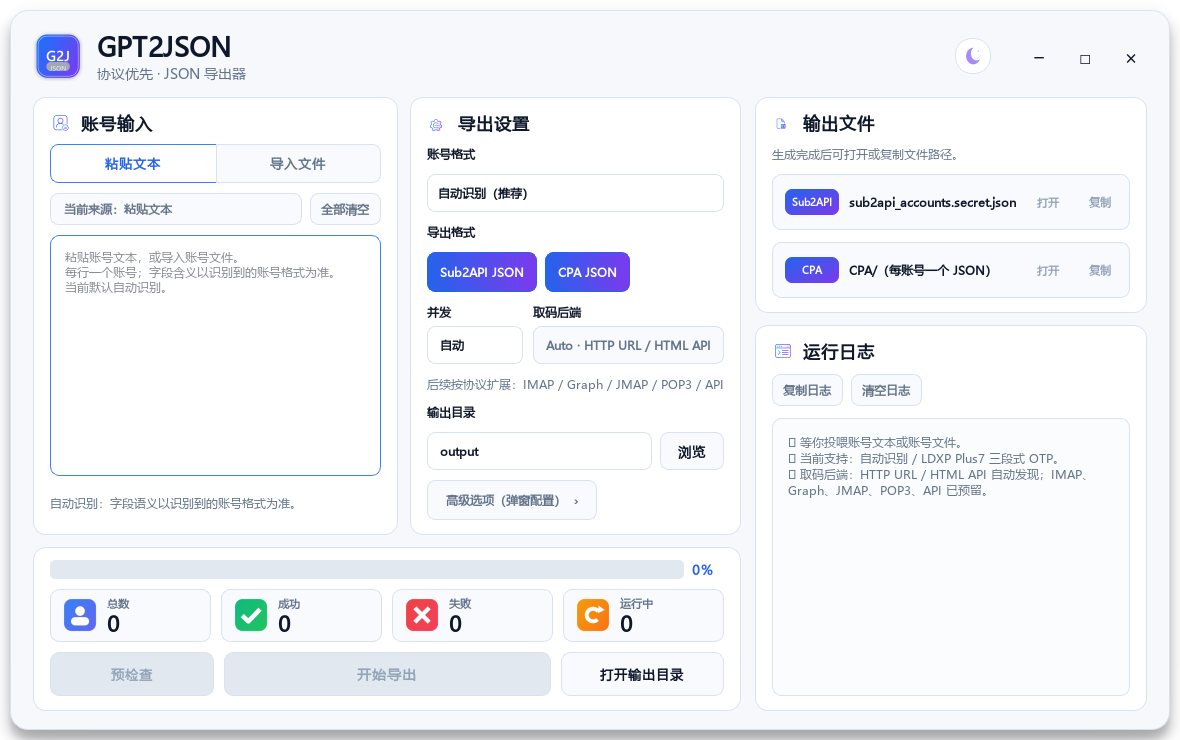
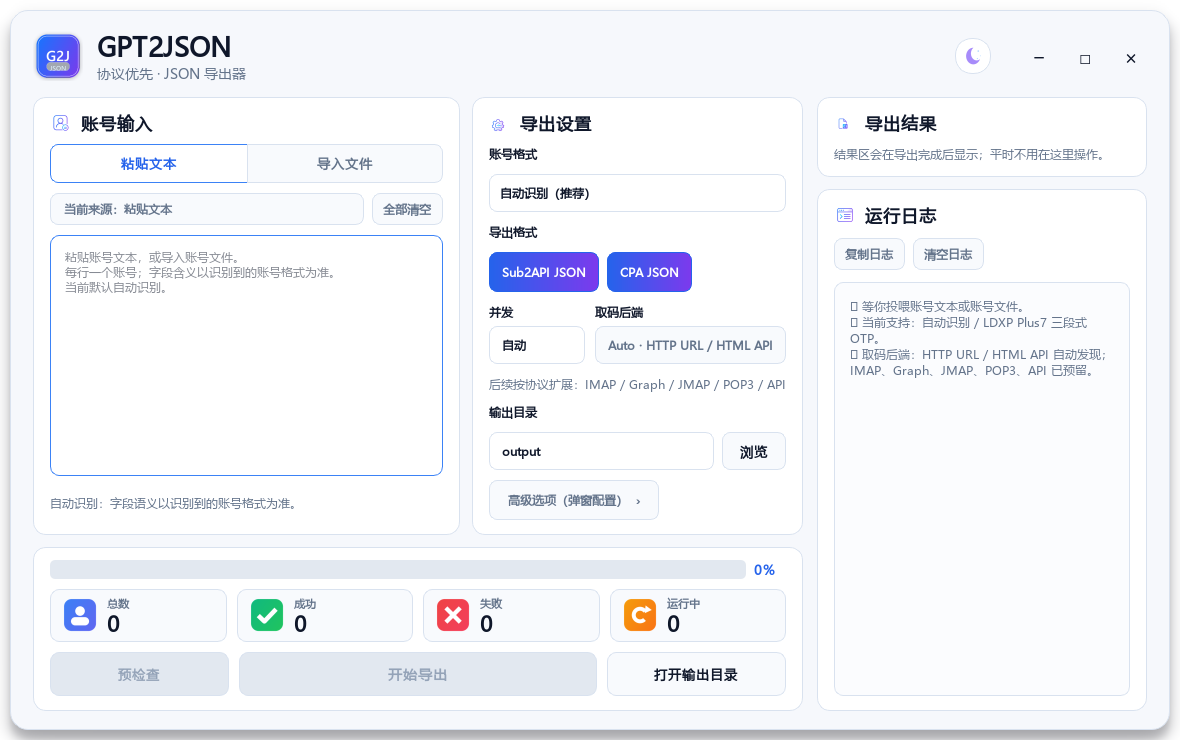
Make output panel contextual

diff --git a/gpt2json/gui.py b/gpt2json/gui.py
@@ -677,12 +677,15 @@ class MainWindow(QMainWindow):
         output_layout = QVBoxLayout(output_card)
         output_layout.setContentsMargins(16, 14, 16, 14)
         output_layout.setSpacing(12)
-        output_layout.addWidget(SectionHeader(UI_OUTPUT_PATH, "输出文件"))
-        self.output_hint_label = QLabel("勾选导出格式后，生成的文件会在这里显示。")
+        output_layout.addWidget(SectionHeader(UI_OUTPUT_PATH, "导出结果"))
+        self.output_hint_label = QLabel("任务完成后显示可打开的结果；未运行时这里保持精简。")
         self.output_hint_label.setObjectName("HintText")
+        self.output_hint_label.setWordWrap(True)
         output_layout.addWidget(self.output_hint_label)
         self.sub2api_row = FileOutputRow("sub2api_accounts.secret.json", "Sub2API")
         self.cpa_row = FileOutputRow("CPA/（每账号一个 JSON）", "CPA")
+        self.sub2api_row.setVisible(False)
+        self.cpa_row.setVisible(False)
         output_layout.addWidget(self.sub2api_row)
         output_layout.addWidget(self.cpa_row)
         layout.addWidget(output_card, 0)
@@ -953,12 +956,22 @@ class MainWindow(QMainWindow):
 
     def _refresh_output_format_state(self, *_args: Any) -> None:
         if hasattr(self, "sub2api_row"):
-            self.sub2api_row.setVisible(True)
-            self.cpa_row.setVisible(True)
-            self.sub2api_row.setEnabled(self.sub2api_check.isChecked() or bool(self.sub2api_row.path))
-            self.cpa_row.setEnabled(self.cpa_check.isChecked() or bool(self.cpa_row.path))
             any_selected = self.sub2api_check.isChecked() or self.cpa_check.isChecked()
-            self.output_hint_label.setText("生成完成后可打开或复制文件路径。" if any_selected else "请至少勾选一种导出格式。")
+            has_sub2api = bool(self.sub2api_row.path)
+            has_cpa = bool(self.cpa_row.path)
+            has_result = has_sub2api or has_cpa
+            self.sub2api_row.setVisible(has_sub2api)
+            self.cpa_row.setVisible(has_cpa)
+            self.sub2api_row.setEnabled(has_sub2api)
+            self.cpa_row.setEnabled(has_cpa)
+            if self._is_running:
+                self.output_hint_label.setText("正在导出，完成后这里会自动出现文件 / 文件夹入口。")
+            elif has_result:
+                self.output_hint_label.setText("已生成结果，可直接打开或复制路径。")
+            elif any_selected:
+                self.output_hint_label.setText("结果区会在导出完成后显示；平时不用在这里操作。")
+            else:
+                self.output_hint_label.setText("请至少勾选一种导出格式。")
         self._refresh_controls_state()
 
     def clear_input(self) -> None:
@@ -1337,6 +1350,7 @@ class MainWindow(QMainWindow):
         self._set_running(True)
         self.sub2api_row.set_path("")
         self.cpa_row.set_path("")
+        self._refresh_output_format_state()
         config = ExportConfig(
             input_path=input_path or "<paste>",
             out_dir=output_dir,
@@ -1503,6 +1517,7 @@ class MainWindow(QMainWindow):
         cpa_path = str(summary.get("cpa_dir") or summary.get("cpa_manifest") or "")
         self.sub2api_row.set_path(sub2api_path)
         self.cpa_row.set_path(cpa_path)
+        self._refresh_output_format_state()
         self.append_log("")
         self.append_log(f"🎉 收工汇总：成功 {success_count} 个，失败 {failure_count} 个。")
         if sub2api_path:
@@ -1516,6 +1531,7 @@ class MainWindow(QMainWindow):
         self._set_running(False)
         self._running = 0
         self.running_stat.set_value(0)
+        self._refresh_output_format_state()
         self._set_status("失败", "failed")
         self.append_log(f"💥 主流程异常：{message}")
         QMessageBox.critical(self, "运行失败", message)

diff --git a/tests/test_gui.py b/tests/test_gui.py
@@ -8,7 +8,7 @@ QtWidgets = pytest.importorskip("PySide6.QtWidgets")
 QtTest = pytest.importorskip("PySide6.QtTest")
 QtCore = pytest.importorskip("PySide6.QtCore")
 
-from gpt2json.gui import APP_NAME, ORG_NAME, MainWindow
+from gpt2json.gui import APP_NAME, ORG_NAME, MainWindow  # noqa: E402
 
 
 def _app():
@@ -74,6 +74,13 @@ def test_gui_input_mode_switch_and_clear(tmp_path):
     assert window._input_mode == "file"
     assert window.input_stack.currentIndex() == 1
     assert window._last_preflight_count == 1
+    assert not window.sub2api_row.isVisible()
+    assert not window.cpa_row.isVisible()
+
+    window.sub2api_row.set_path(str(tmp_path / "out" / "sub2api_accounts.secret.json"))
+    window.cpa_row.set_path(str(tmp_path / "out" / "CPA"))
+    window._refresh_output_format_state()
+    app.processEvents()
     assert window.sub2api_row.isVisible()
     assert window.cpa_row.isVisible()
 
